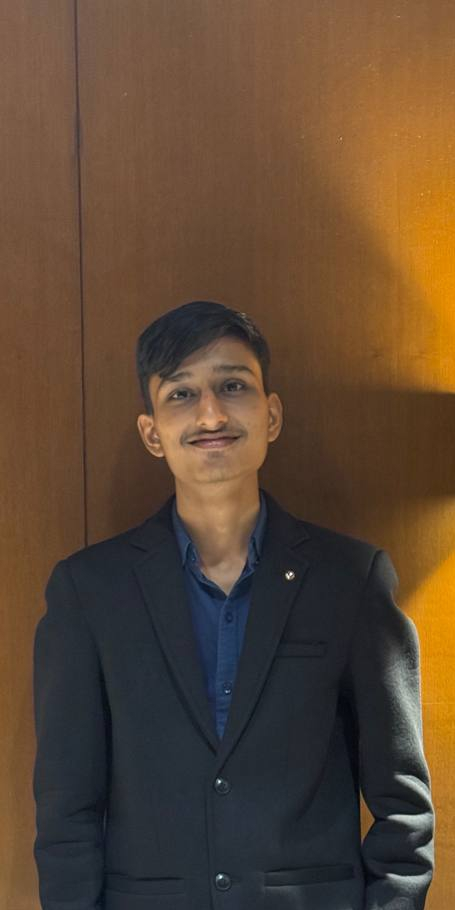
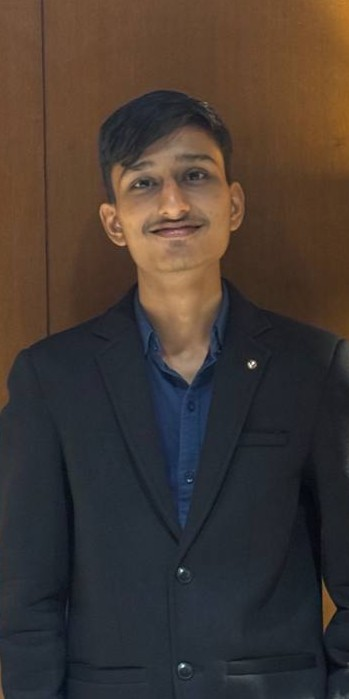
some images alignments fixed

diff --git a/pages/Team.tsx b/pages/Team.tsx
@@ -1,6 +1,7 @@
 import React, { useRef, useState, useEffect } from 'react';
 import { motion, useInView, AnimatePresence } from 'framer-motion';
 import { Github, Linkedin, Crown, Code2, Palette, Settings } from 'lucide-react';
+import { EmbersBackground } from '../components/Achievements/GlowDots';
 
 // ─────────────────────────────────────────────────────────────────────────────
 // TYPES
@@ -13,10 +14,6 @@ interface TeamMember {
   github?: string;
 }
 
-// ─────────────────────────────────────────────────────────────────────────────
-// TEAM DATA  ← Edit this object to add / remove members
-// Images live in /public/  — use exact filename with extension
-// ─────────────────────────────────────────────────────────────────────────────
 const teamData: Record<string, TeamMember[]> = {
 
   // ── LEADS: President · VP · Secretary · All Dept Heads ───────────────────
@@ -106,7 +103,7 @@ const teamData: Record<string, TeamMember[]> = {
       linkedin: 'https://www.linkedin.com/in/ashishgokani',
       github: 'https://github.com/ashishgokani',
     },
-    
+
     {
       name: 'Deep Jaiswal',
       role: 'Web Team Member',
@@ -162,7 +159,7 @@ const teamData: Record<string, TeamMember[]> = {
       linkedin: 'https://www.linkedin.com/in/vaishnavi-patel-03431730b',
       github: 'https://github.com/Vaishnavi3406',
     },
-    
+
     {
       name: 'Priyal Dalal',
       role: 'Management Team Member',
@@ -412,6 +409,7 @@ const TeamSection: React.FC<{ section: typeof SECTIONS[number]; sectionIndex: nu
   const inView = useInView(ref, { once: true, margin: '-80px' });
   const Icon = section.icon;
   const members = teamData[section.key];
+  const isEven = sectionIndex % 2 === 0;
 
   return (
     <motion.div
@@ -547,117 +545,6 @@ const TeamSection: React.FC<{ section: typeof SECTIONS[number]; sectionIndex: nu
             ))}
           </div>
         </motion.div>
-      </div>
-    </motion.div>
-  );
-};
-
-// ─────────────────────────────────────────────────────────────────────────────
-// HERO
-// ─────────────────────────────────────────────────────────────────────────────
-const Hero: React.FC = () => {
-  const totalMembers = Object.values(teamData).flat().length;
-
-  return (
-    <motion.div
-      initial={{ opacity: 0, y: 20 }}
-      animate={{ opacity: 1, y: 0 }}
-      transition={{ duration: 0.65, ease: [0.25, 0.46, 0.45, 0.94] }}
-      style={{
-        padding: '100px 0 80px',
-        position: 'relative',
-        textAlign: 'center',
-      }}
-    >
-      {/* Small label */}
-      <motion.div
-        initial={{ opacity: 0, scale: 0.9 }}
-        animate={{ opacity: 1, scale: 1 }}
-        className="inline-flex items-center gap-2 mb-6 px-4 py-1.5 rounded-full border text-[11px] font-bold uppercase tracking-[0.2em]"
-        style={{ background: 'rgba(249,115,22,0.08)', borderColor: 'rgba(249,115,22,0.3)', color: '#f97316' }}
-      >
-        <Crown size={12} /> The Core Team · Code Vimarsh
-      </motion.div>
-
-      {/* Main Headline */}
-      <h1
-        style={{
-          fontFamily: 'Cinzel Decorative, Cinzel, serif',
-          fontWeight: 900,
-          fontSize: 'clamp(2.5rem, 6vw, 4.8rem)',
-          color: '#f5f0e8',
-          margin: '0 auto 16px',
-          letterSpacing: '0.04em',
-          lineHeight: 1.1,
-          maxWidth: 900,
-        }}
-      >
-        Meet the Architects of{' '}
-        <span
-          style={{
-            color: '#f97316',
-            textShadow: '0 0 40px rgba(249,115,22,0.55)',
-            display: 'inline-block',
-          }}
-        >
-          Innovation
-        </span>
-      </h1>
-
-      {/* Professional Subtitle */}
-      <p style={{
-        color: '#6a5a4a',
-        fontFamily: 'JetBrains Mono, monospace',
-        fontSize: '11px',
-        letterSpacing: '0.2em',
-        textTransform: 'uppercase',
-        maxWidth: 600,
-        margin: '0 auto 48px'
-      }}>
-        A collective of engineers, designers, and visionaries building the community of tomorrow.
-      </p>
-
-      {/* Stats row - Centered */}
-      <div
-        style={{
-          display: 'flex',
-          justifyContent: 'center',
-          gap: 'clamp(2rem, 8vw, 6rem)',
-          paddingBottom: 8,
-          flexWrap: 'wrap',
-        }}
-      >
-        {[
-          { value: String(totalMembers), label: 'Core Members' },
-          { value: String(SECTIONS.length), label: 'Specialized Teams' },
-          { value: '∞', label: 'Collaboration' },
-        ].map(stat => (
-          <div key={stat.label} style={{ textAlign: 'center' }}>
-            <div
-              style={{
-                fontFamily: 'Inter, sans-serif',
-                fontWeight: 900,
-                fontSize: '2.5rem',
-                color: '#f0ece6',
-                lineHeight: 1,
-              }}
-            >
-              {stat.value}
-            </div>
-            <div
-              style={{
-                fontFamily: 'JetBrains Mono, monospace',
-                fontSize: '0.6rem',
-                color: 'rgba(255,255,255,0.28)',
-                letterSpacing: '0.14em',
-                textTransform: 'uppercase',
-                marginTop: 6,
-              }}
-            >
-              {stat.label}
-            </div>
-          </div>
-        ))}
       </div>
     </motion.div>
   );
